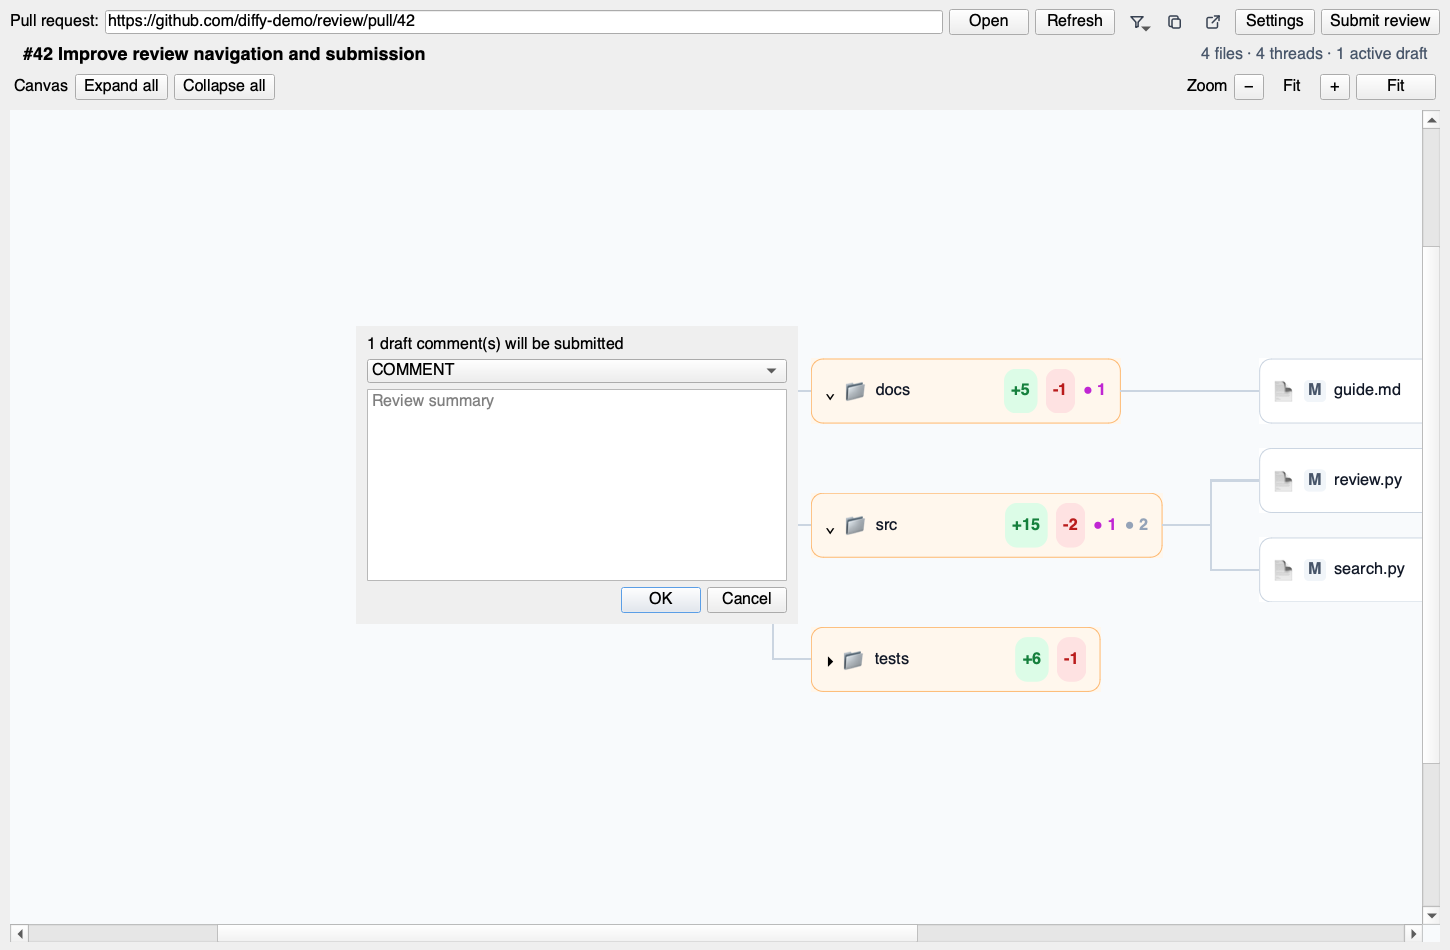
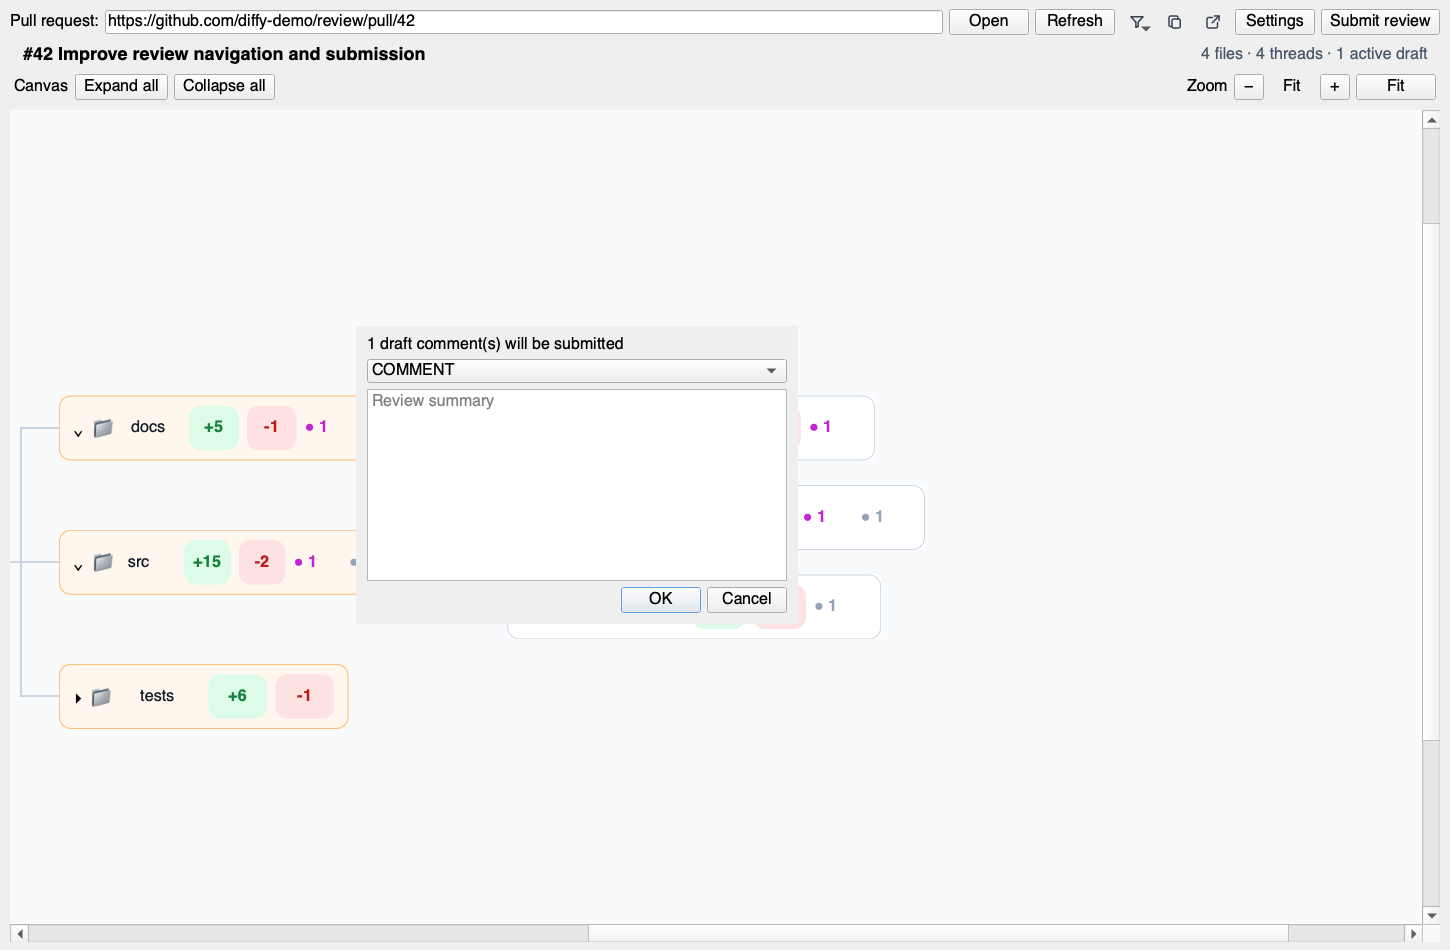
Tighten tree node badge spacing

diff --git a/diffy/ui/tree_node.py b/diffy/ui/tree_node.py
@@ -55,10 +55,10 @@ class TreeNodeWidget(QWidget):
             layout.addWidget(status_label)
 
         name_label = QLabel(name)
-        name_label.setSizePolicy(QSizePolicy.Policy.Ignored, QSizePolicy.Policy.Preferred)
+        name_label.setSizePolicy(QSizePolicy.Policy.Preferred, QSizePolicy.Policy.Preferred)
         name_label.setMinimumWidth(0)
         name_label.setStyleSheet("background: transparent; border: 0; color: #111827;")
-        layout.addWidget(name_label, 1)
+        layout.addWidget(name_label)
 
         additions_label = QLabel(f"+{additions}")
         additions_label.setAlignment(Qt.AlignmentFlag.AlignCenter)
